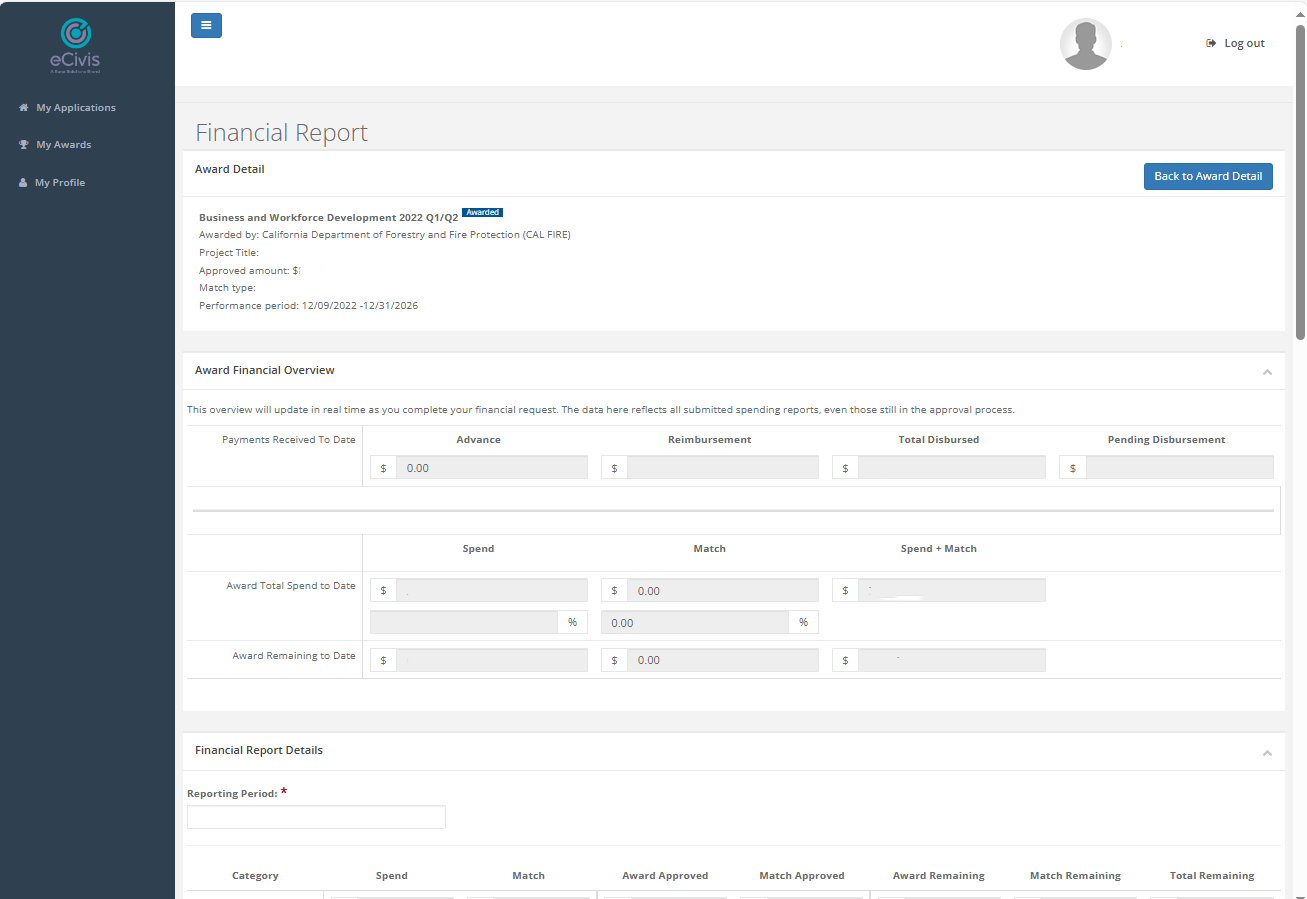
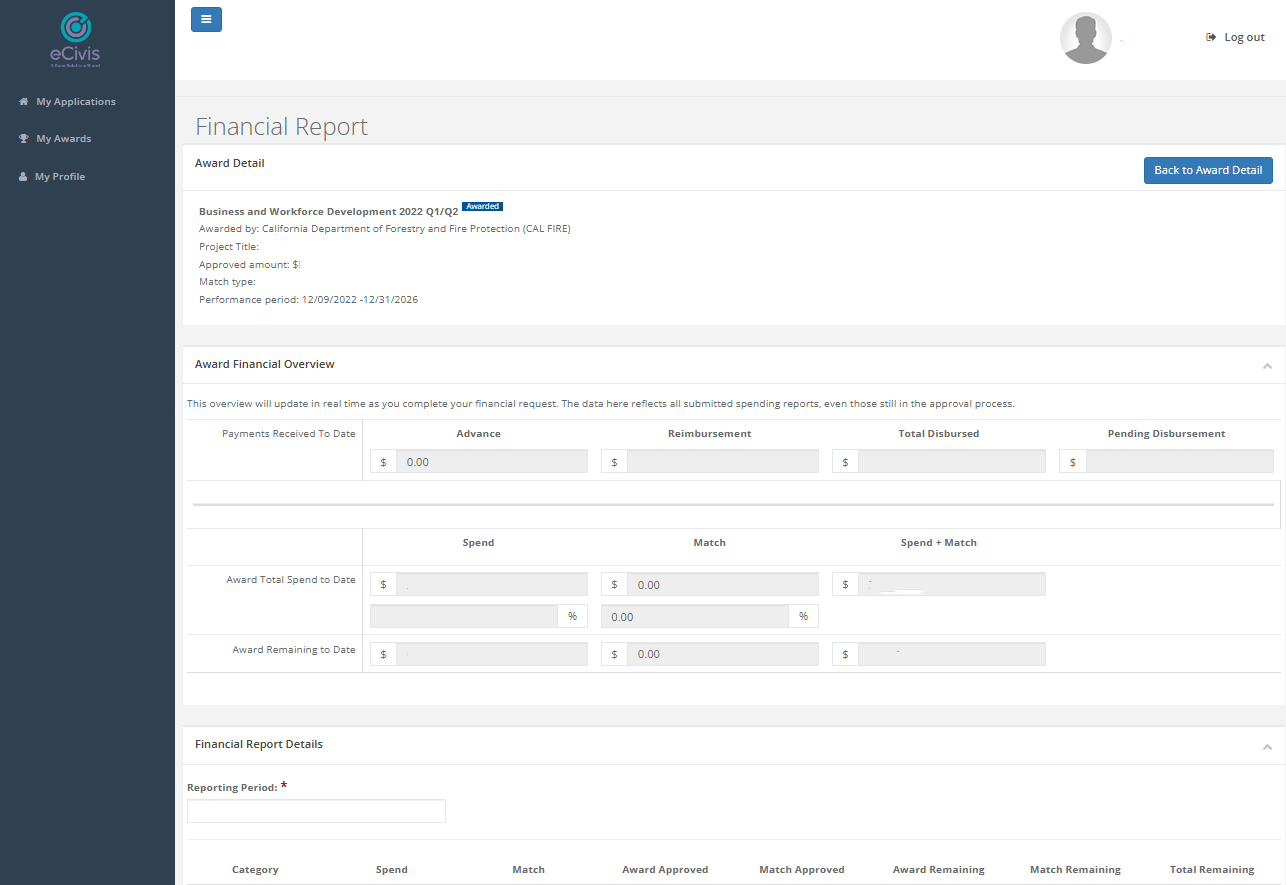
chapters spellcheck

diff --git a/_build/html/chapters/ecivis.html b/_build/html/chapters/ecivis.html
@@ -524,11 +524,11 @@ Line items automatically calculate the unit and unit cost the first time you ent
 <p>When submitting an invoice to CAL FIRE, you must prepare and sign the CAL FIRE Invoice Form (provided upon grant award; an example can be found here). You will save and submit this as a standalone one-page PDF file. Additionally, you will be required to prepare a separate PDF file packet for each Budget Item listed on your CAL FIRE Invoice Form for which you are requesting payment.</p>
 <p>These PDF file packets contain invoicing backup documentation for your expenditure reimbursements, plus any receipts or pertinent supporting information that should accompany it. CAL FIRE requests that the file names correspond to the Budget Item category. It’s also helpful to include your invoice number, such as “CONTRACTUAL – INV-07” or “TRAVEL – PMT-01.”  For example, your PDF file “CONTRACTUAL – INV-07” invoice packet will contain all invoices and reimbursement requests for the invoicing period that fall under the Contractual category of your project budget. In the Financial Report Files section, these file packets will be uploaded as individual sets of documents to eCivis. Note that you do not need to submit supporting documentation when reporting your matching contributions; however, you should keep it for your records in the event of an audit.</p>
 <p>When you are ready to submit your Financial Report, click on the green “Submit Financial Report” button on the Award Dashboard, and then click “Continue with New Report” when prompted.</p>
-<p>Your Award Financial Overview totals are displayed in the top section (<a class="reference internal" href="#fin-report1"><span class="std std-numref">Fig. 5.7</span></a>).</p>
+<p>Your Financial Overview totals are displayed in the top section (<a class="reference internal" href="#fin-report1"><span class="std std-numref">Fig. 5.7</span></a>).</p>
 <figure class="align-default" id="fin-report1">
 <img alt="../_images/fin_report1.png" src="../_images/fin_report1.png" />
 <figcaption>
-<p><span class="caption-number">Fig. 5.7 </span><span class="caption-text">Award financial overview. Note that amounts have been redacted for privacy reasons.</span><a class="headerlink" href="#fin-report1" title="Link to this image">#</a></p>
+<p><span class="caption-number">Fig. 5.7 </span><span class="caption-text">Financial overview. Note that amounts have been redacted for privacy reasons.</span><a class="headerlink" href="#fin-report1" title="Link to this image">#</a></p>
 </figcaption>
 </figure>
 <p>Below that, enter the reporting period for your reimbursement. This Reporting Period should match the Invoice Period you entered on your CAL FIRE Invoice Form. The Invoice Period must include all dates mentioned in all parts of your invoice. For example, if a person submits reimbursement for a receipt dated January 19, the Invoice Period must include January 19. It is reasonable to expect these invoicing periods to overlap from invoice to invoice.</p>

diff --git a/_build/html/_sources/chapters/ecivis.md b/_build/html/_sources/chapters/ecivis.md
@@ -103,11 +103,11 @@ These PDF file packets contain invoicing backup documentation for your expenditu
 
 When you are ready to submit your Financial Report, click on the green “Submit Financial Report” button on the Award Dashboard, and then click “Continue with New Report” when prompted.
 
-Your Award Financial Overview totals are displayed in the top section ({numref}`fin_report1`).
+Your Financial Overview totals are displayed in the top section ({numref}`fin_report1`).
 
 ```{figure} /figures/ecivis/fin_report1.png
 :name: fin_report1
-Award financial overview. Note that amounts have been redacted for privacy reasons.
+Financial overview. Note that amounts have been redacted for privacy reasons.
 ```
 
 Below that, enter the reporting period for your reimbursement. This Reporting Period should match the Invoice Period you entered on your CAL FIRE Invoice Form. The Invoice Period must include all dates mentioned in all parts of your invoice. For example, if a person submits reimbursement for a receipt dated January 19, the Invoice Period must include January 19. It is reasonable to expect these invoicing periods to overlap from invoice to invoice.

diff --git a/chapters/ecivis.md b/chapters/ecivis.md
@@ -103,11 +103,11 @@ These PDF file packets contain invoicing backup documentation for your expenditu
 
 When you are ready to submit your Financial Report, click on the green “Submit Financial Report” button on the Award Dashboard, and then click “Continue with New Report” when prompted.
 
-Your Award Financial Overview totals are displayed in the top section ({numref}`fin_report1`).
+Your Financial Overview totals are displayed in the top section ({numref}`fin_report1`).
 
 ```{figure} /figures/ecivis/fin_report1.png
 :name: fin_report1
-Award financial overview. Note that amounts have been redacted for privacy reasons.
+Financial overview. Note that amounts have been redacted for privacy reasons.
 ```
 
 Below that, enter the reporting period for your reimbursement. This Reporting Period should match the Invoice Period you entered on your CAL FIRE Invoice Form. The Invoice Period must include all dates mentioned in all parts of your invoice. For example, if a person submits reimbursement for a receipt dated January 19, the Invoice Period must include January 19. It is reasonable to expect these invoicing periods to overlap from invoice to invoice.
